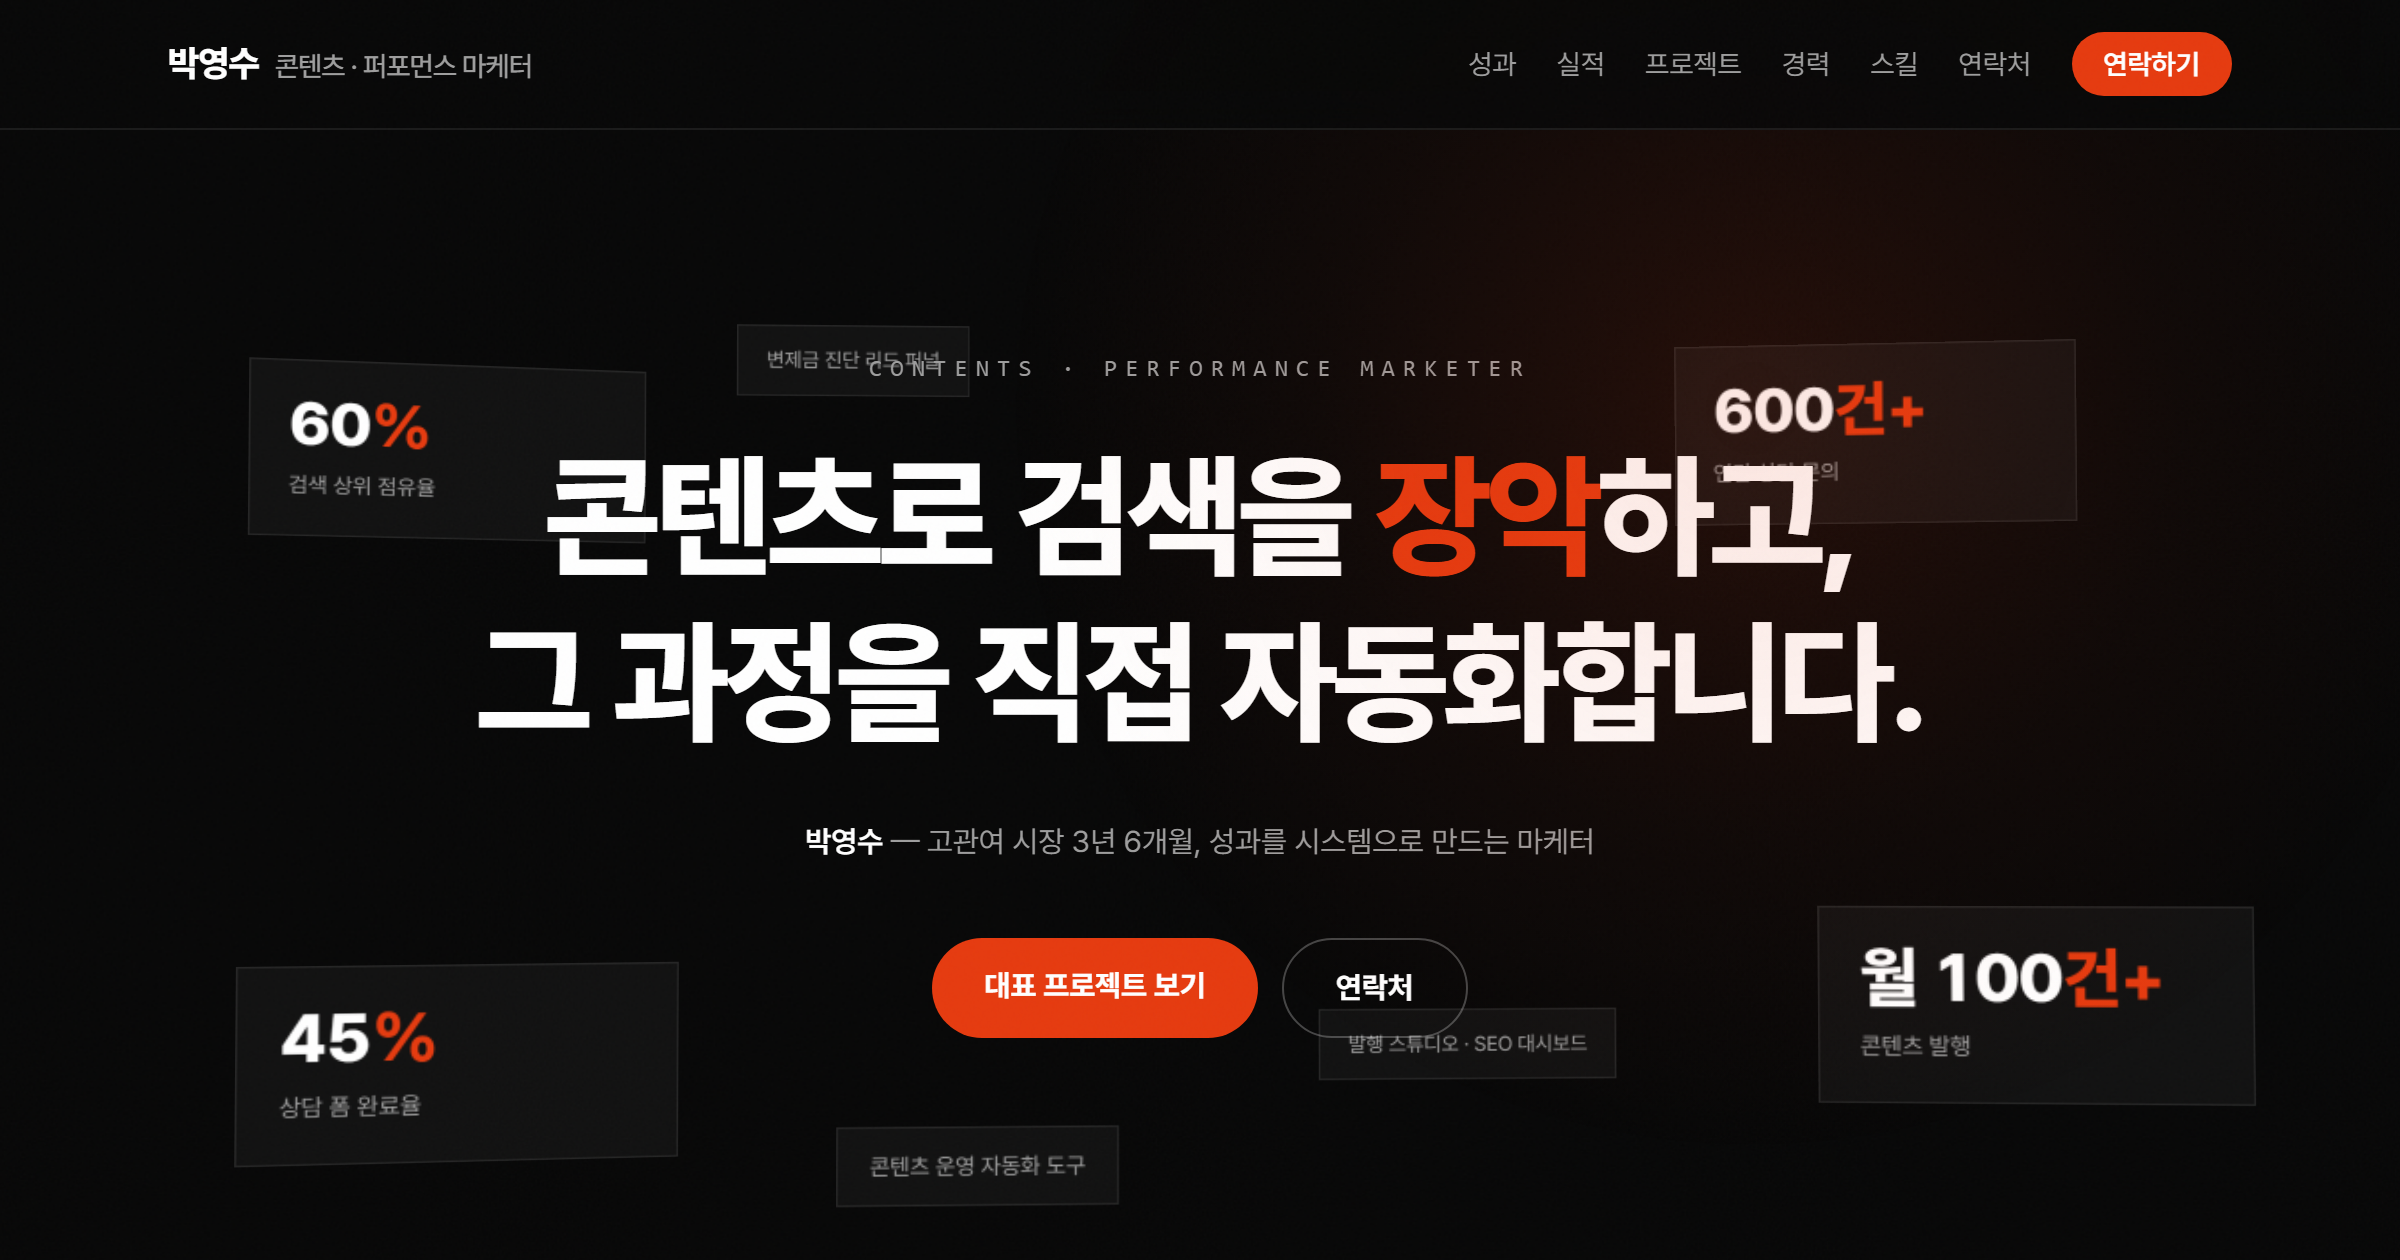
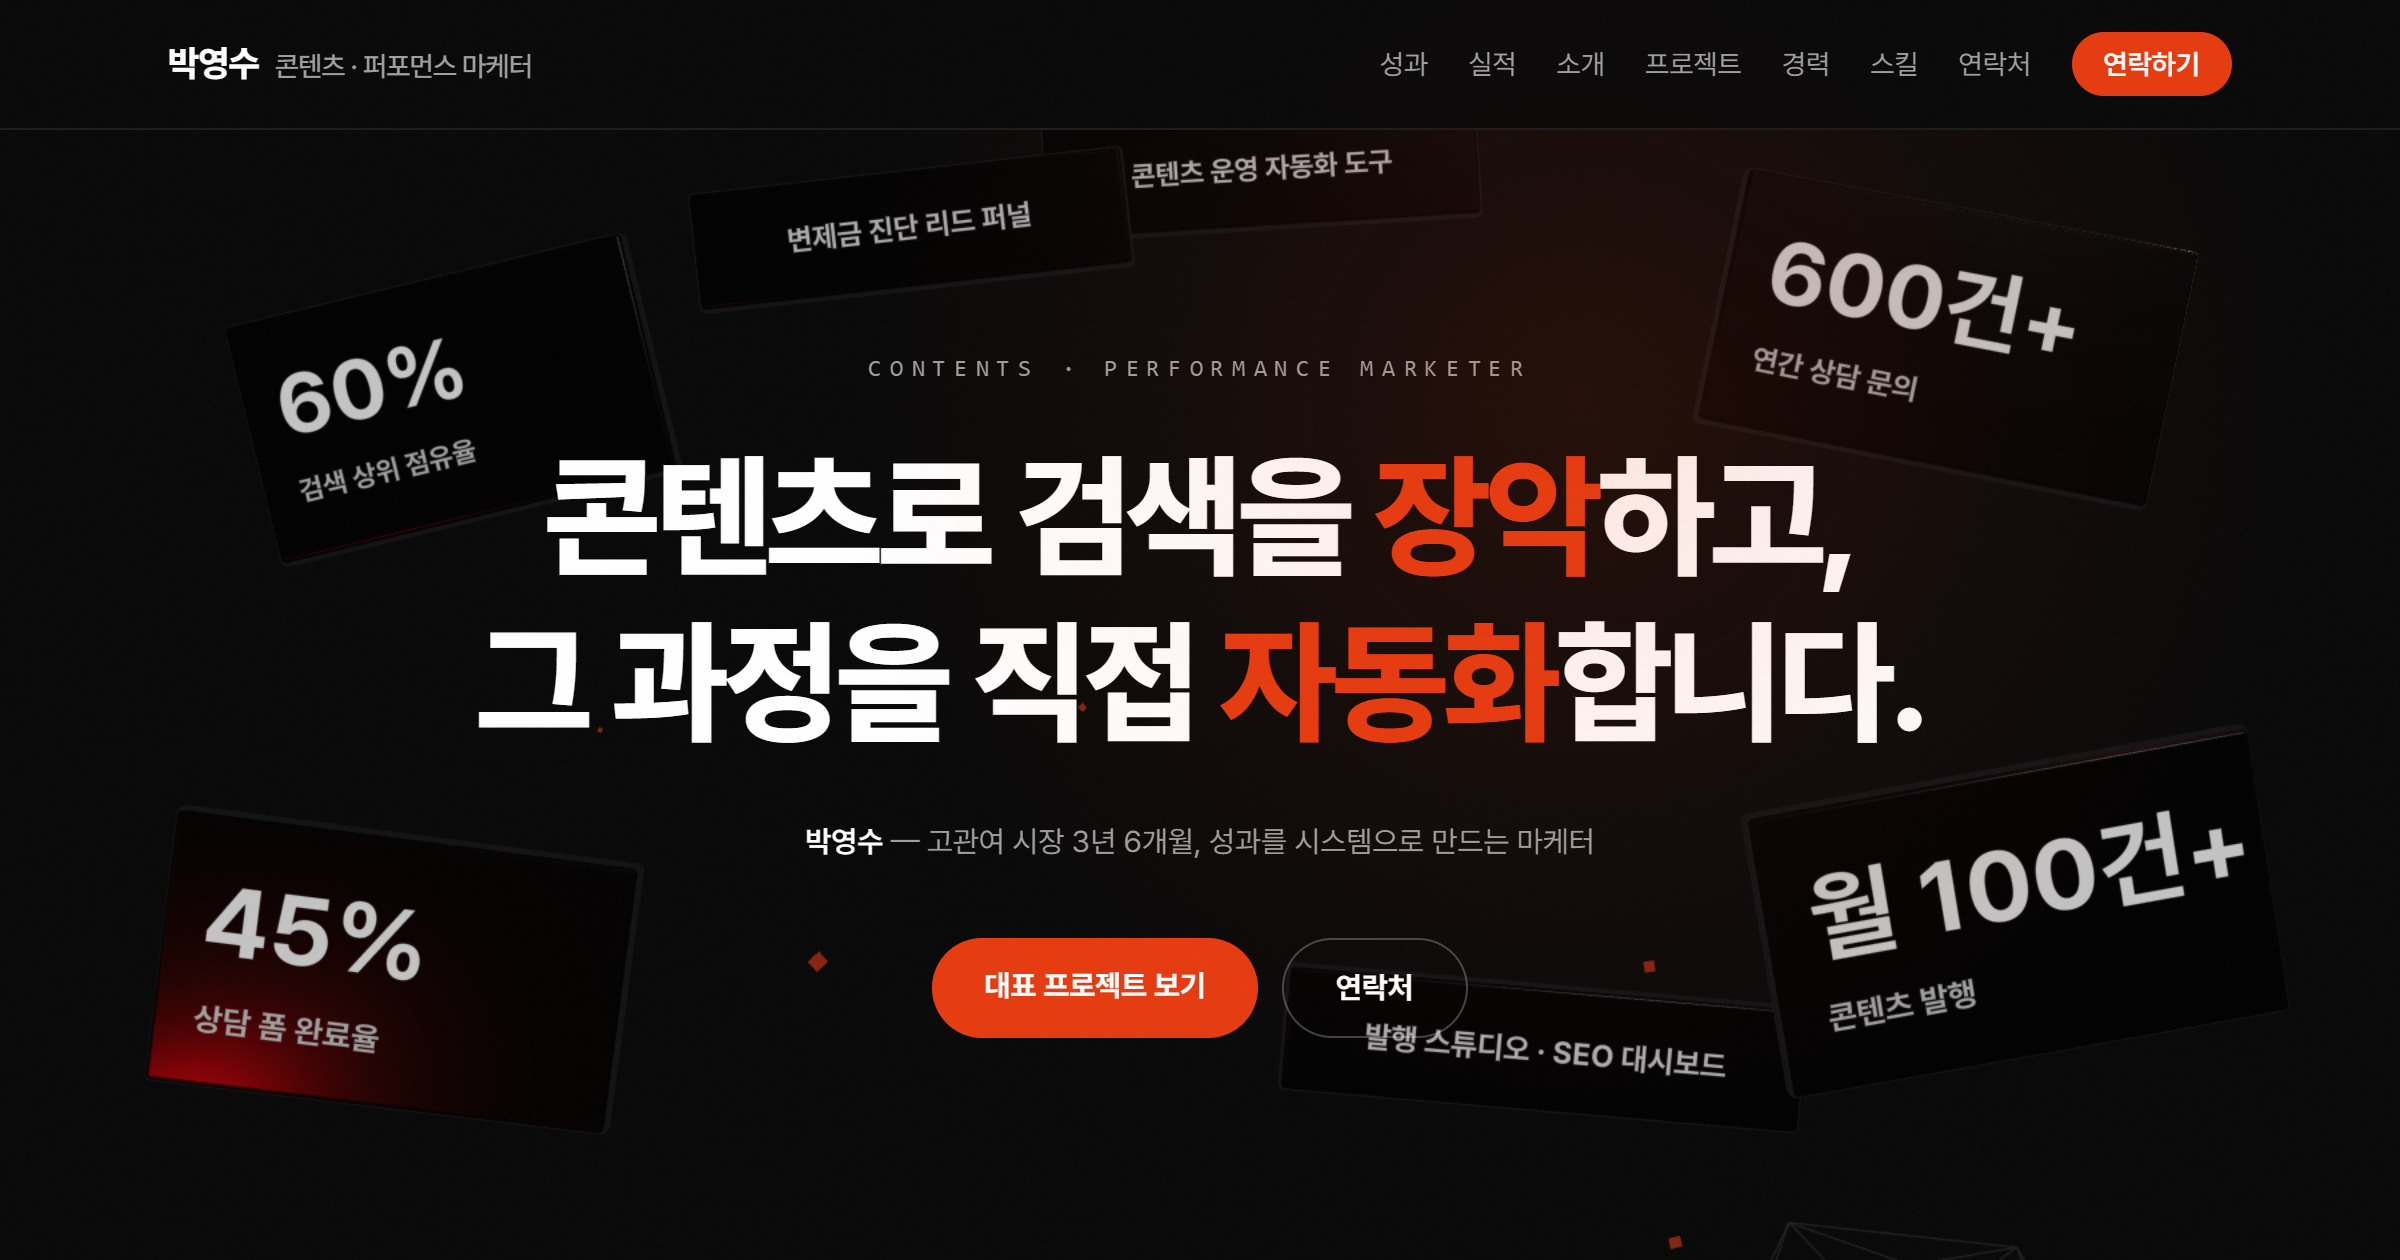
일관성 스윕: 모바일 카드 빅뱅 편입 + 이미지 CLS 제거 + OG 갱신
- 폴백/모바일 CSS 카드도 bang 게이트로 — 떠오름 폐지, 스케일 팝 등장
  (독립 scale 속성 사용: 3D 배치 transform 덮어쓰기 방지)
- 이미지 실측 크기 맵(imageSizes.ts, image-size로 36장 생성) →
  케이스 밴드/갤러리/실적 이미지에 width/height — 로드 시프트 0
- og.png를 현재 완성형 히어로로 재생성

diff --git a/app/imageSizes.ts b/app/imageSizes.ts
@@ -1,0 +1,147 @@
+// 자동 생성: node scripts 참조 — 이미지 로드 CLS 방지용 실측 크기
+export const IMG_SIZES: Record<string, { w: number; h: number }> = {
+  "/projects/blog1.webp": {
+    "w": 1258,
+    "h": 843
+  },
+  "/projects/blog2.webp": {
+    "w": 1254,
+    "h": 840
+  },
+  "/projects/blog3.webp": {
+    "w": 1252,
+    "h": 842
+  },
+  "/projects/blog4.webp": {
+    "w": 1252,
+    "h": 840
+  },
+  "/projects/blog5.webp": {
+    "w": 1252,
+    "h": 839
+  },
+  "/projects/cafe-1.webp": {
+    "w": 989,
+    "h": 863
+  },
+  "/projects/cafe-2.webp": {
+    "w": 1063,
+    "h": 907
+  },
+  "/projects/cafe-3.webp": {
+    "w": 1033,
+    "h": 722
+  },
+  "/projects/cafe1.webp": {
+    "w": 1377,
+    "h": 857
+  },
+  "/projects/cafe2.webp": {
+    "w": 1380,
+    "h": 864
+  },
+  "/projects/cafe3.webp": {
+    "w": 1367,
+    "h": 539
+  },
+  "/projects/cafe4.webp": {
+    "w": 1374,
+    "h": 869
+  },
+  "/projects/cafe5.webp": {
+    "w": 1377,
+    "h": 862
+  },
+  "/projects/cardnews-caption.webp": {
+    "w": 1600,
+    "h": 777
+  },
+  "/projects/cardnews-instagram-1.webp": {
+    "w": 1600,
+    "h": 764
+  },
+  "/projects/cardnews-instagram.webp": {
+    "w": 1192,
+    "h": 865
+  },
+  "/projects/cardnews.webp": {
+    "w": 1600,
+    "h": 767
+  },
+  "/projects/guerrilla-grid.webp": {
+    "w": 1586,
+    "h": 826
+  },
+  "/projects/lead-admin-2.webp": {
+    "w": 1288,
+    "h": 632
+  },
+  "/projects/lead-admin.webp": {
+    "w": 1268,
+    "h": 578
+  },
+  "/projects/lead-funnel.webp": {
+    "w": 1600,
+    "h": 1550
+  },
+  "/projects/lead-step.webp": {
+    "w": 1600,
+    "h": 1000
+  },
+  "/projects/lead.webp": {
+    "w": 1600,
+    "h": 1000
+  },
+  "/projects/magazine-article-1.webp": {
+    "w": 1600,
+    "h": 1175
+  },
+  "/projects/magazine-article-2.webp": {
+    "w": 1600,
+    "h": 1175
+  },
+  "/projects/magazine-article-3.webp": {
+    "w": 1600,
+    "h": 1175
+  },
+  "/projects/magazine.webp": {
+    "w": 1600,
+    "h": 1000
+  },
+  "/projects/result-funnel.webp": {
+    "w": 1561,
+    "h": 780
+  },
+  "/projects/result-search.webp": {
+    "w": 1298,
+    "h": 924
+  },
+  "/projects/result-sheet.webp": {
+    "w": 1600,
+    "h": 759
+  },
+  "/projects/saju-input.webp": {
+    "w": 1600,
+    "h": 1000
+  },
+  "/projects/saju.webp": {
+    "w": 1600,
+    "h": 1000
+  },
+  "/projects/studio-publish.webp": {
+    "w": 1600,
+    "h": 1005
+  },
+  "/projects/studio-seo.webp": {
+    "w": 1600,
+    "h": 1277
+  },
+  "/projects/studio-seo2.webp": {
+    "w": 1600,
+    "h": 1277
+  },
+  "/projects/화면 캡처 2026-06-29 154048.png": {
+    "w": 740,
+    "h": 368
+  }
+};

diff --git a/app/components/HeroV2.module.css b/app/components/HeroV2.module.css
@@ -59,7 +59,10 @@
   background: #111;
   border: 1px solid #242424;
   transform-style: preserve-3d;
-  animation: enter 1.15s cubic-bezier(0.16, 1, 0.3, 1) both,
+  opacity: 0; /* 빅뱅(.go) 전엔 암전 — 등장도 같은 사건에 묶는다 */
+}
+.go .fcard {
+  animation: enter 0.6s cubic-bezier(0.22, 1.35, 0.36, 1) both,
     drift 9s ease-in-out 1.2s infinite alternate;
 }
 .fcard b {
@@ -89,21 +92,22 @@
   margin-top: 0;
   font-size: 13px;
 }
+/* transform은 3D 배치가 쓰므로 독립 scale 속성으로 (덮어쓰기 방지) */
 @keyframes enter {
-  from { opacity: 0; margin-top: 60px; filter: blur(6px); }
-  to { opacity: 1; margin-top: 0; filter: blur(0); }
+  from { opacity: 0; scale: 0.4; filter: blur(5px); }
+  to { opacity: 1; scale: 1; filter: blur(0); }
 }
 @keyframes drift {
   from { margin-top: -9px; }
   to { margin-top: 9px; }
 }
-.p1 { top: 12%; left: 5%; transform: translateZ(-220px) rotateY(9deg); animation-delay: 0.55s, 1.2s; }
-.p2 { top: 66%; left: 9%; transform: translateZ(-80px) rotateY(6deg); animation-delay: 0.7s, -3s; }
-.p3 { top: 10%; left: 74%; transform: translateZ(-140px) rotateY(-8deg); animation-delay: 0.62s, -5s; }
-.p4 { top: 62%; left: 78%; transform: translateZ(-40px) rotateY(-6deg); animation-delay: 0.78s, -7s; }
-.p5 { top: 3%; left: 27%; transform: translateZ(-320px); animation-delay: 0.9s, -2s; }
-.p6 { top: 74%; left: 58%; transform: translateZ(-300px); animation-delay: 0.96s, -6s; }
-.p7 { top: 82%; left: 34%; transform: translateZ(-160px); animation-delay: 0.84s, -4s; }
+.p1 { top: 12%; left: 5%; transform: translateZ(-220px) rotateY(9deg); animation-delay: 0.02s, 1.2s; }
+.p2 { top: 66%; left: 9%; transform: translateZ(-80px) rotateY(6deg); animation-delay: 0.1s, -3s; }
+.p3 { top: 10%; left: 74%; transform: translateZ(-140px) rotateY(-8deg); animation-delay: 0.05s, -5s; }
+.p4 { top: 62%; left: 78%; transform: translateZ(-40px) rotateY(-6deg); animation-delay: 0.13s, -7s; }
+.p5 { top: 3%; left: 27%; transform: translateZ(-320px); animation-delay: 0.16s, -2s; }
+.p6 { top: 74%; left: 58%; transform: translateZ(-300px); animation-delay: 0.2s, -6s; }
+.p7 { top: 82%; left: 34%; transform: translateZ(-160px); animation-delay: 0.09s, -4s; }
 
 /* 중앙 타이포 */
 .center {

diff --git a/app/page.tsx b/app/page.tsx
@@ -8,6 +8,7 @@ import StageShowcase, { type StageProject } from "./components/StageShowcase";
 import CountUp from "./components/CountUp";
 import Magnet from "./components/Magnet";
 import { profile, metrics, evidence, projects, projectGroups, career, skills, about, type Project } from "./data";
+import { IMG_SIZES } from "./imageSizes";
 
 export default function Home() {
   return (
@@ -79,7 +80,13 @@ function MarketingResults() {
                 {e.src ? (
                   <div className="overflow-hidden border border-line bg-black/30">
                     {/* eslint-disable-next-line @next/next/no-img-element */}
-                    <img src={e.src} alt={e.title} className="w-full" />
+                    <img
+                      src={e.src}
+                      alt={e.title}
+                      width={IMG_SIZES[e.src]?.w}
+                      height={IMG_SIZES[e.src]?.h}
+                      className="h-auto w-full"
+                    />
                   </div>
                 ) : (
                   <div className="flex min-h-[200px] items-center justify-center border border-dashed border-line text-center text-sm text-faint">

diff --git a/app/components/Gallery.tsx b/app/components/Gallery.tsx
@@ -1,6 +1,7 @@
 "use client";
 
 import { useCallback, useEffect, useMemo, useRef, useState } from "react";
+import { IMG_SIZES } from "../imageSizes";
 import { Canvas, useFrame } from "@react-three/fiber";
 import { useTexture } from "@react-three/drei";
 import * as THREE from "three";
@@ -195,7 +196,9 @@ export default function Gallery({
               <img
                 src={shot.src}
                 alt={shot.caption ?? `${title} 화면 ${i + 1}`}
-                className="w-full transition-transform duration-700 ease-out group-hover:scale-[1.02]"
+                width={IMG_SIZES[shot.src]?.w}
+                height={IMG_SIZES[shot.src]?.h}
+                className="h-auto w-full transition-transform duration-700 ease-out group-hover:scale-[1.02]"
               />
               <span className="absolute inset-0 flex items-center justify-center bg-black/0 opacity-0 transition-all duration-200 group-hover:bg-black/30 group-hover:opacity-100">
                 <span className="rounded-full bg-white/95 px-4 py-2 text-sm font-bold text-black shadow-lg">

diff --git a/app/projects/[slug]/page.tsx b/app/projects/[slug]/page.tsx
@@ -6,6 +6,7 @@ import Reveal from "../../components/Reveal";
 import CountUp from "../../components/CountUp";
 import CaseNav, { type CaseStep } from "../../components/CaseNav";
 import { projects, profile } from "../../data";
+import { IMG_SIZES } from "../../imageSizes";
 
 const caseProjects = projects.filter((p) => p.slug && p.caseStudy);
 
@@ -39,7 +40,13 @@ function Band({ src, caption }: { src: string; caption?: string }) {
         )}
         <div className="border-y border-line bg-black/30">
           {/* eslint-disable-next-line @next/next/no-img-element */}
-          <img src={src} alt={caption ?? ""} className="mx-auto max-h-[82vh] w-auto max-w-full" />
+          <img
+            src={src}
+            alt={caption ?? ""}
+            width={IMG_SIZES[src]?.w}
+            height={IMG_SIZES[src]?.h}
+            className="mx-auto h-auto max-h-[82vh] w-auto max-w-full"
+          />
         </div>
       </figure>
     </Reveal>
